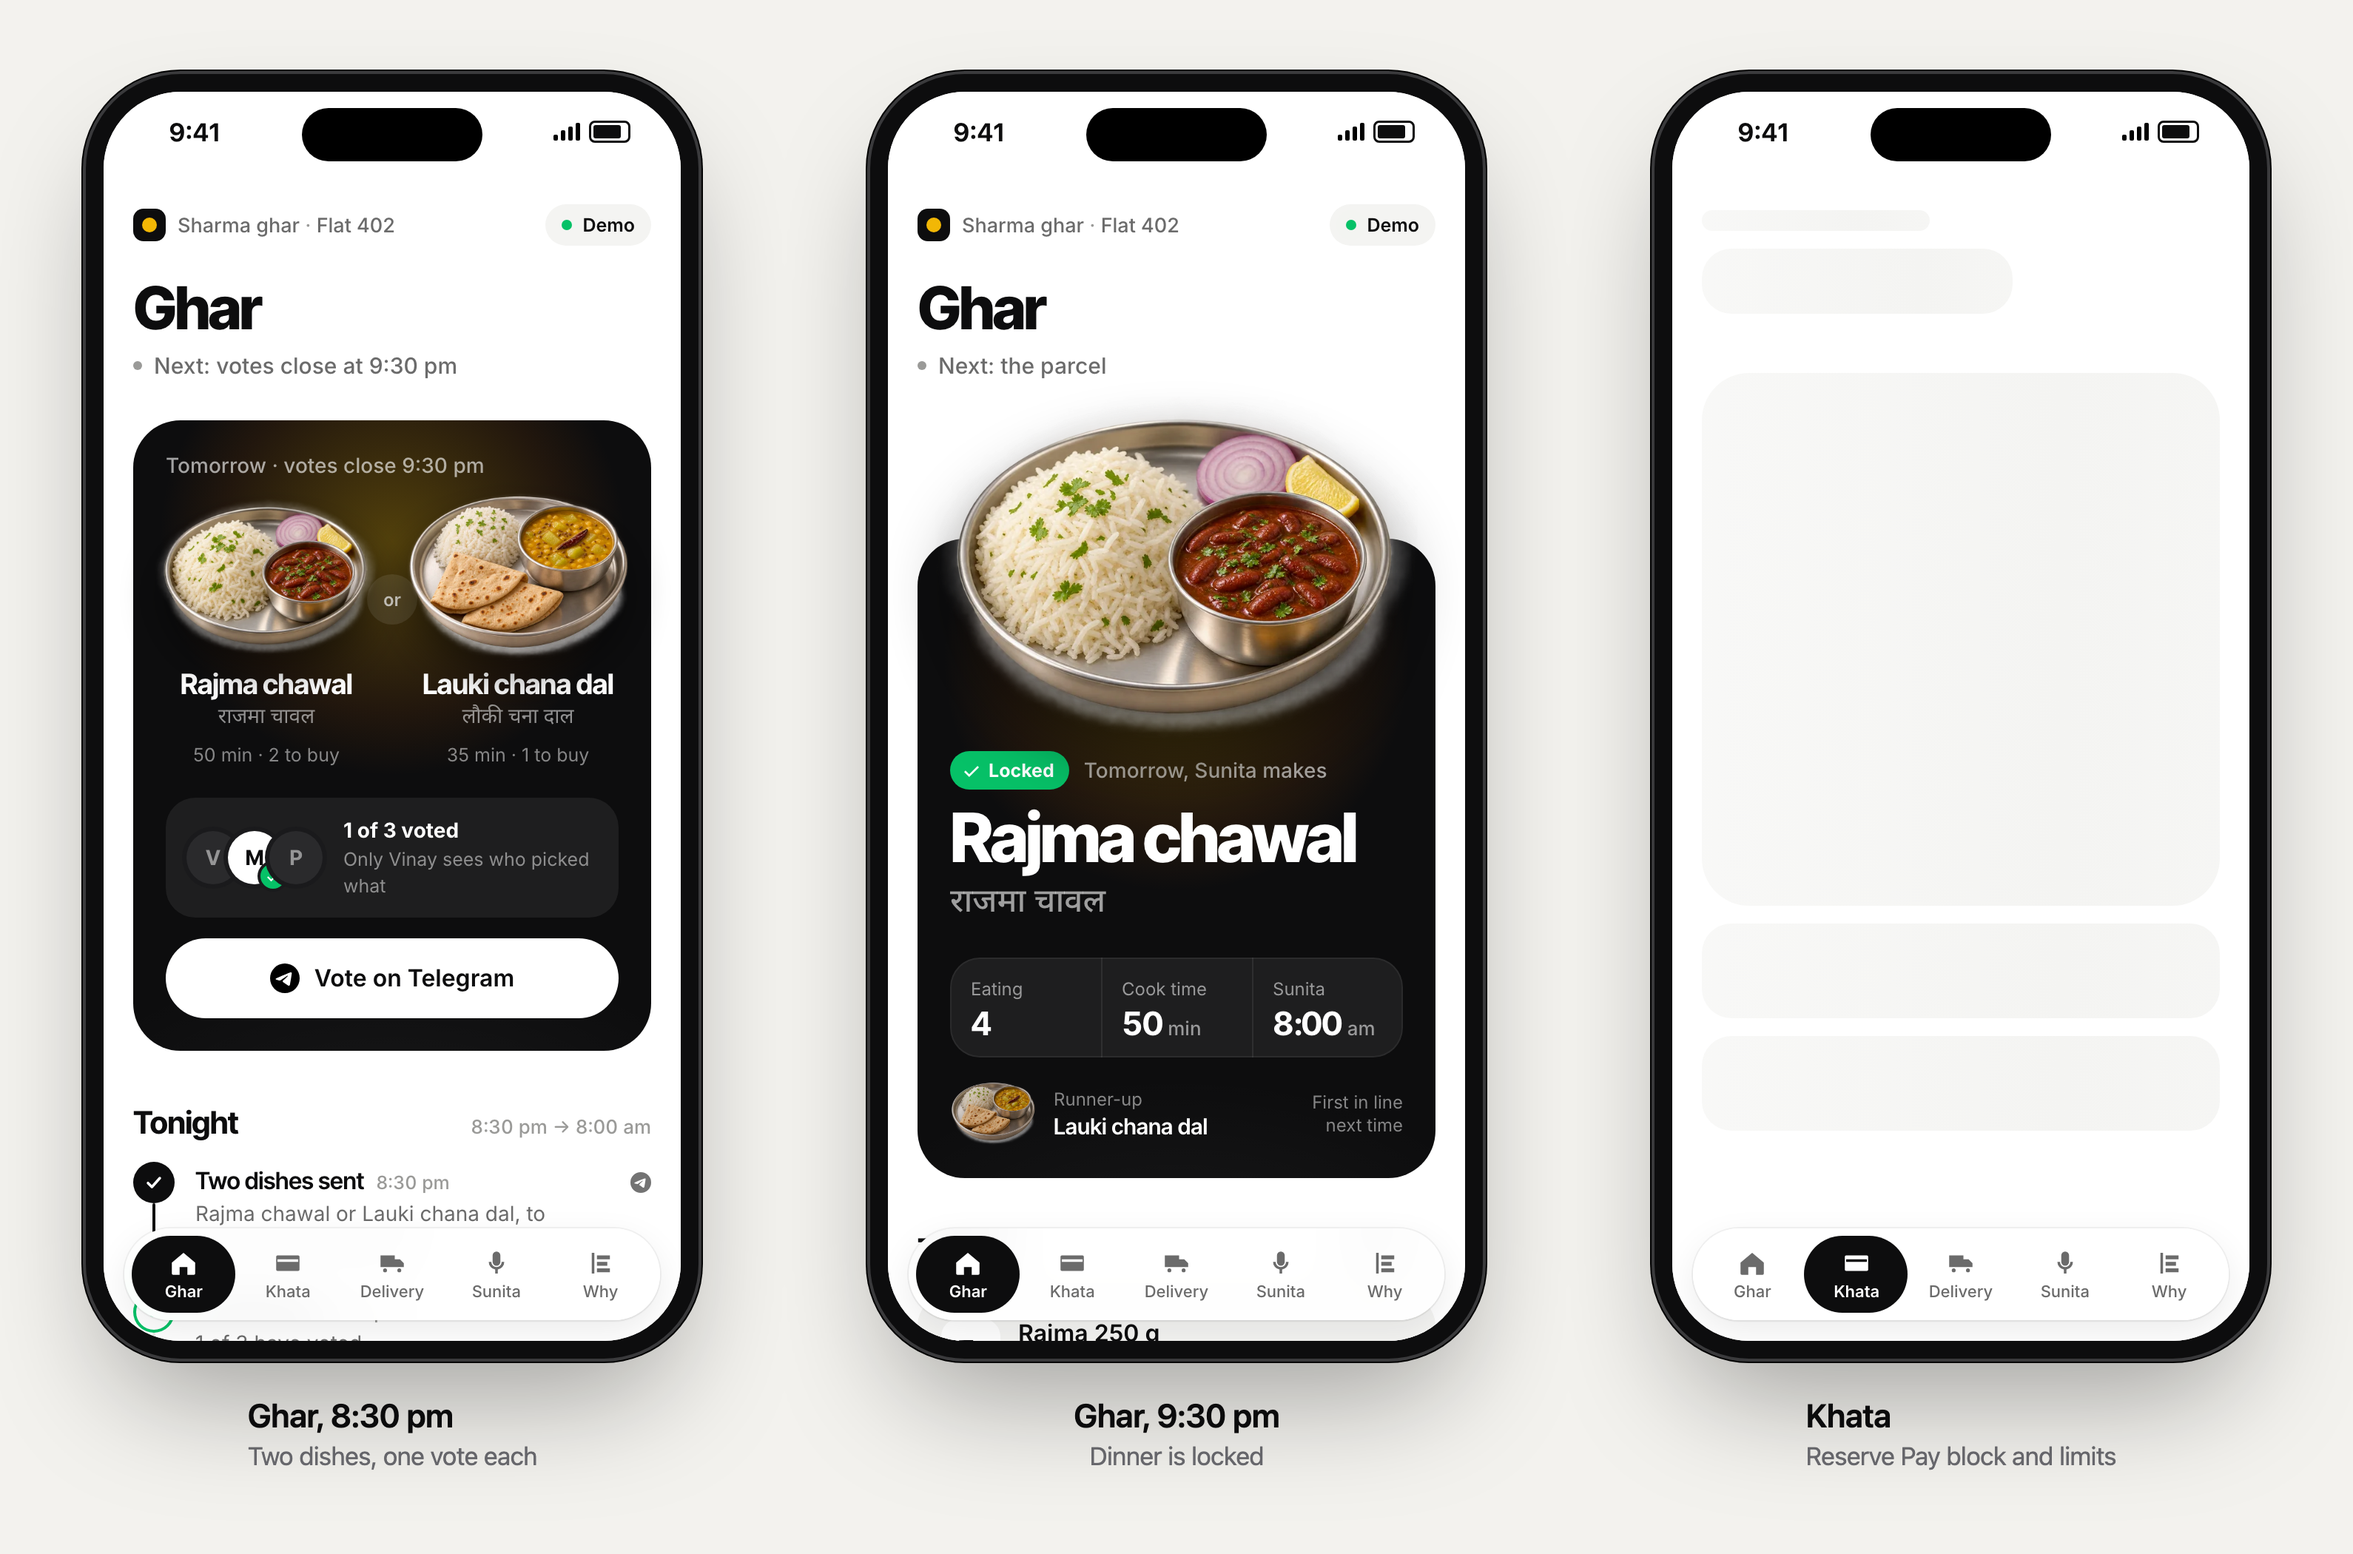
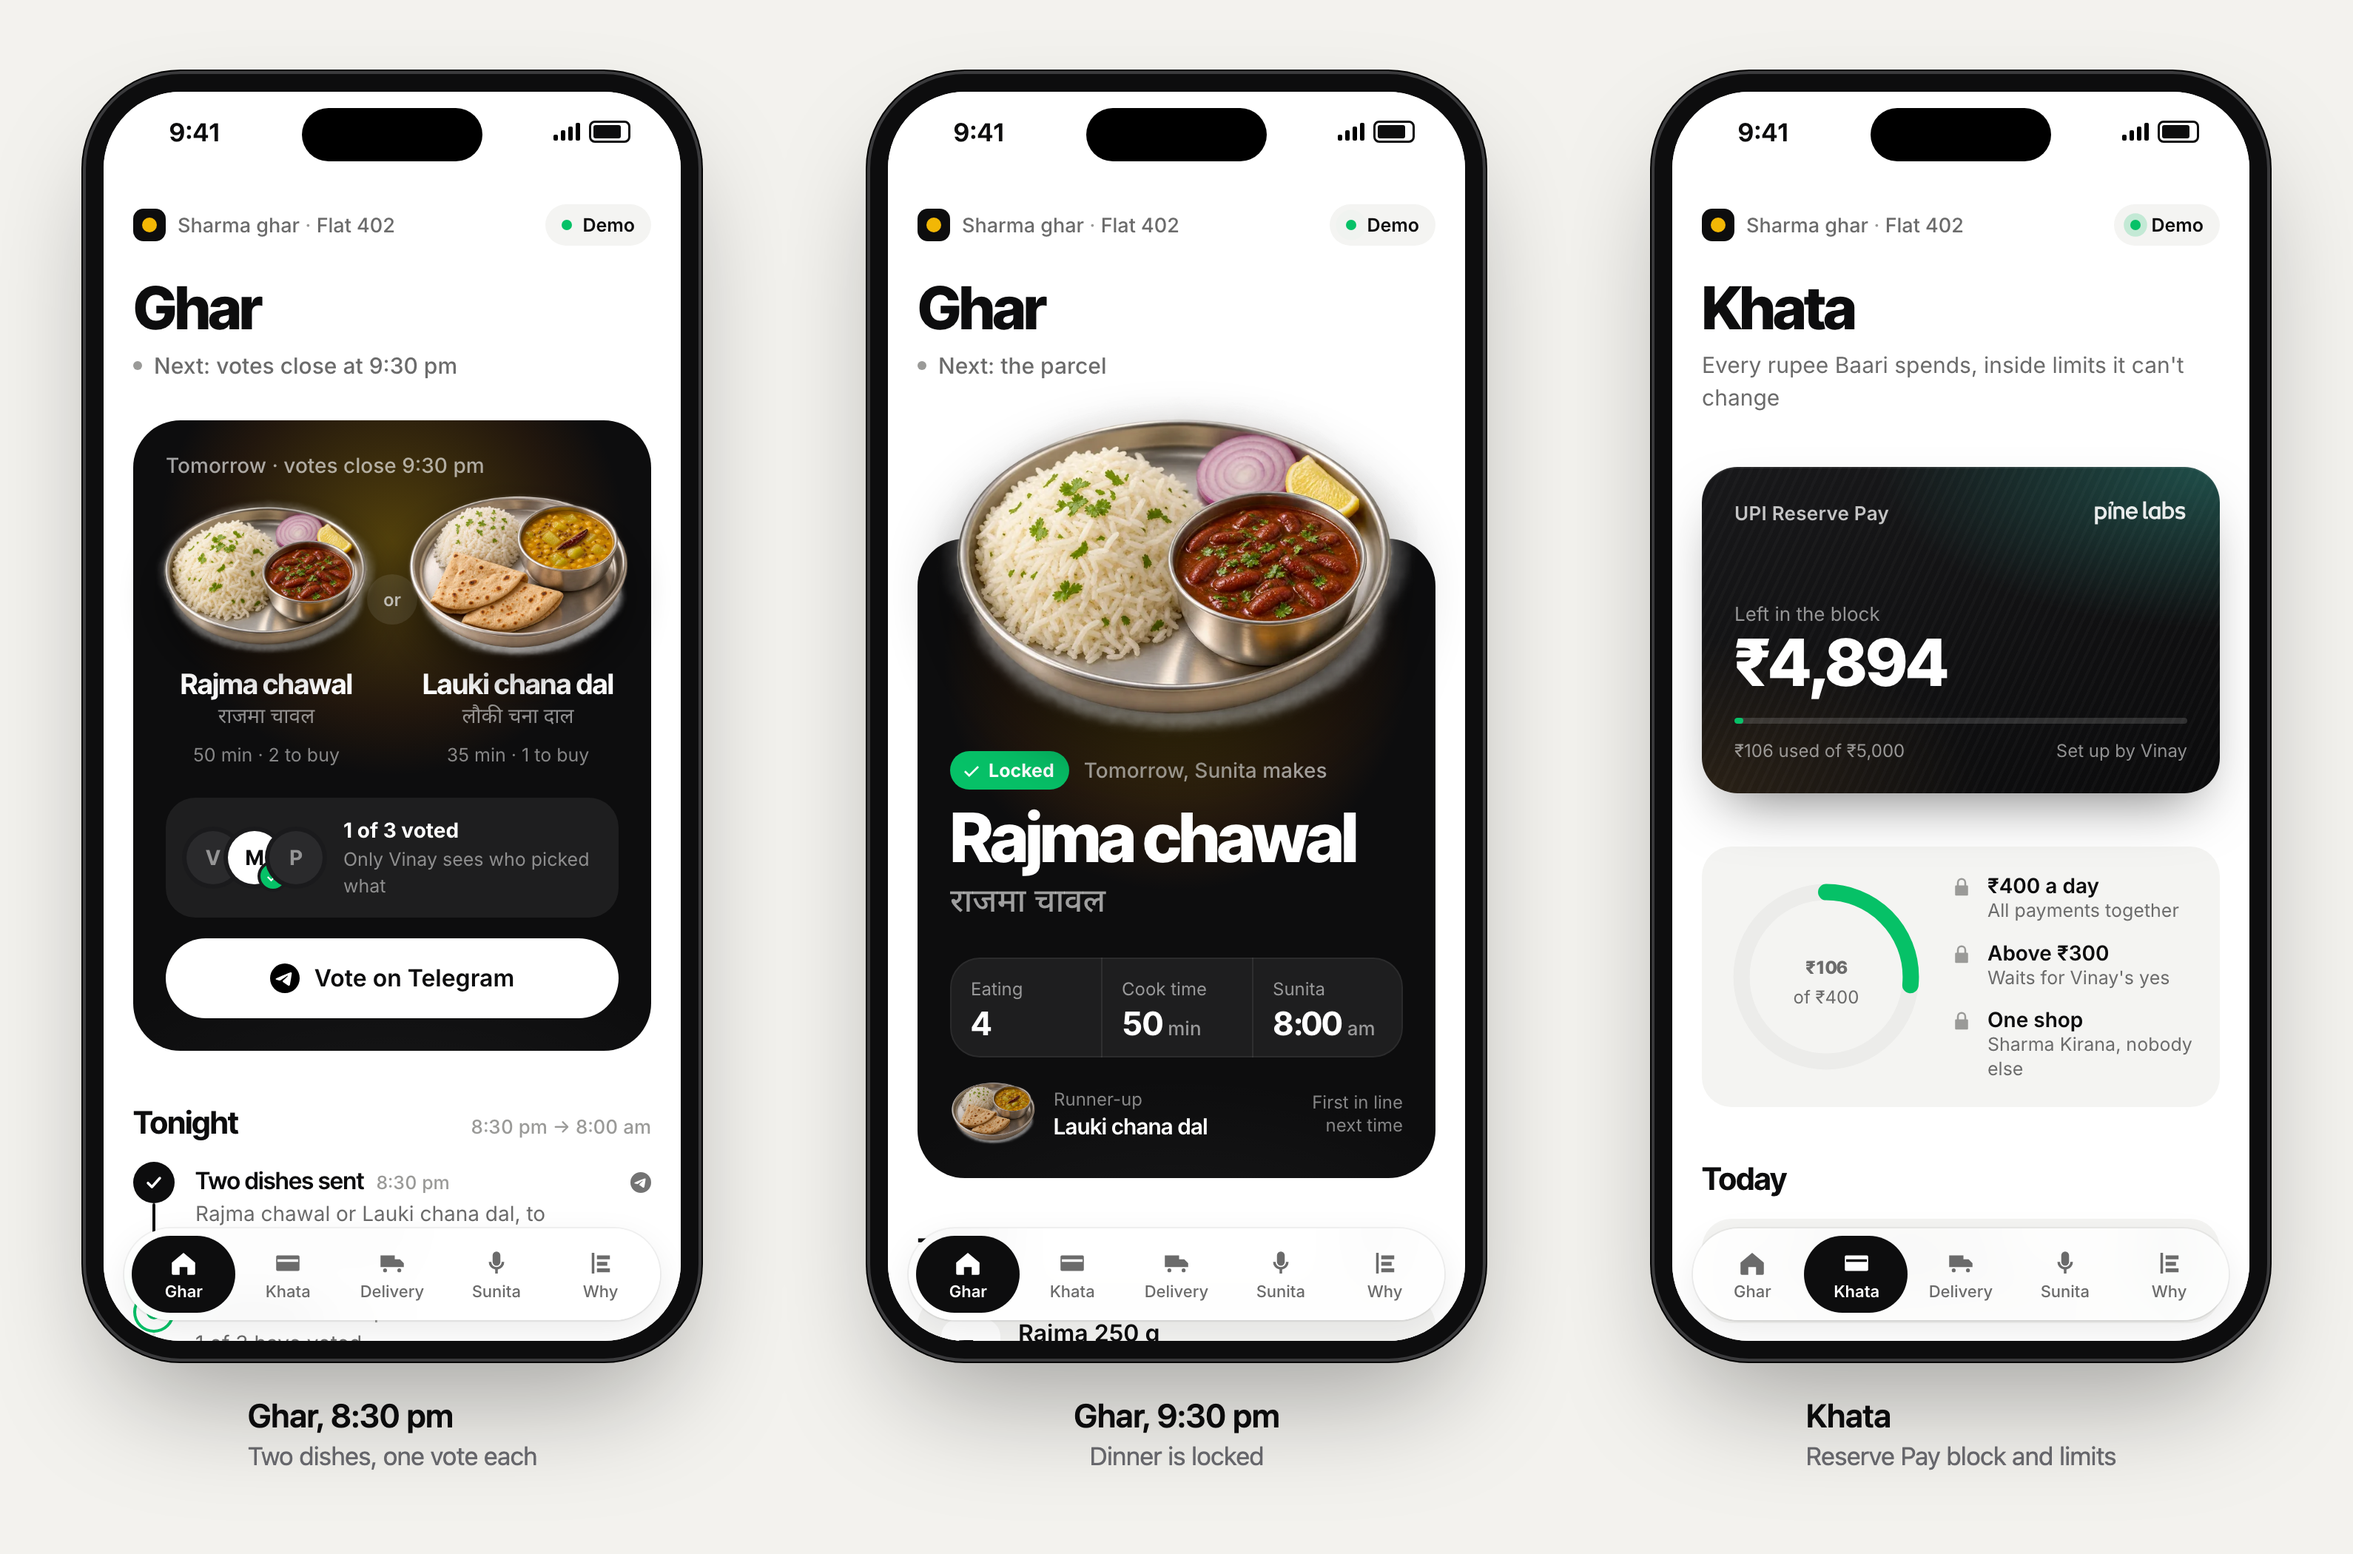
Reshoot Khata mockup (was the skeleton); humanizer pass on ANSWERS Q10

diff --git a/submission/ANSWERS.md b/submission/ANSWERS.md
@@ -247,7 +247,11 @@ From the R3 rows in `evals/out/runs.csv`: prompt v5, GPT-5.4, on Baari-eval, wit
 
 Still failing on the final prompt:
 
-**E04, the debit that doesn't fit.** The household block has Rs 50 left and staples cost Rs 106.26. B2 says to check the balance on its own, and if the money doesn't fit, to skip the shipment and the debit and tell Vinay the shortfall. GPT-5.4 calls balance, create_shipment and debit together in one parallel batch, so it learns the balance only after it has already booked the shipment and asked for Rs 106.26. Our mock Pine Labs rejected the debit with 422 INSUFFICIENT_BALANCE, so no money moved, but a Delhivery shipment went out that nobody paid for. It failed four runs in a row on v5 (f62f8415, 2c4c3961, 5243a5f3, 5b99016f). We tightened B2 twice, and the batching didn't change. The second edit fixed something else. Run f62f8415 wrote a D line saying the debit went through. After we added "a D line describes only calls made and results seen", runs 5243a5f3 and 5b99016f told Vinay the truth: "Rs 106.26 maanga, aaj Rs 50.00 left hai." A prompt can't stop the batching. The fix belongs in the tools: create_shipment should refuse until a balance read in an earlier step covers the cost, or the platform should let us turn off parallel tool calls for this agent. One early v5 run (d7cd6cec) passed, which suggests the model sometimes splits the calls on its own.
+**E04, the debit that doesn't fit.** The household block has Rs 50 left and staples cost Rs 106.26. B2 says to check the balance on its own, and if the money doesn't fit, to skip the shipment and the debit and tell Vinay the shortfall. GPT-5.4 calls balance, create_shipment and debit together in one parallel batch, so it learns the balance only after it has already booked the shipment and asked for Rs 106.26. Our mock Pine Labs rejected the debit with 422 INSUFFICIENT_BALANCE, so no money moved, but a Delhivery shipment went out that nobody paid for. It failed four runs in a row on v5 (f62f8415, 2c4c3961, 5243a5f3, 5b99016f).
+
+We tightened B2 twice, and the batching didn't change. The second edit did fix something else. Run f62f8415 wrote a D line saying the debit went through. After we added "a D line describes only calls made and results seen", runs 5243a5f3 and 5b99016f told Vinay the truth: "Rs 106.26 maanga, aaj Rs 50.00 left hai."
+
+We don't think a prompt can stop the batching. The fix belongs in the tools: create_shipment should refuse until a balance read in an earlier step covers the cost, or the platform should let us turn off parallel tool calls for this agent. One early v5 run (d7cd6cec) passed, which suggests the model sometimes splits the calls on its own.
 
 **E05, the retry, cites the wrong rule.** The behaviour is right. The first debit fails, the agent retries once with the same BAARI-2026-10-05-staples reference, and the second attempt goes through. But its D line cites B2 and B4 instead of M6, the rule that says a retry reuses the reference, so the `rule_cited` judge fails it (9f28c0f8, a3fc6ade). It passed on an earlier v5 (6193937e).
 
